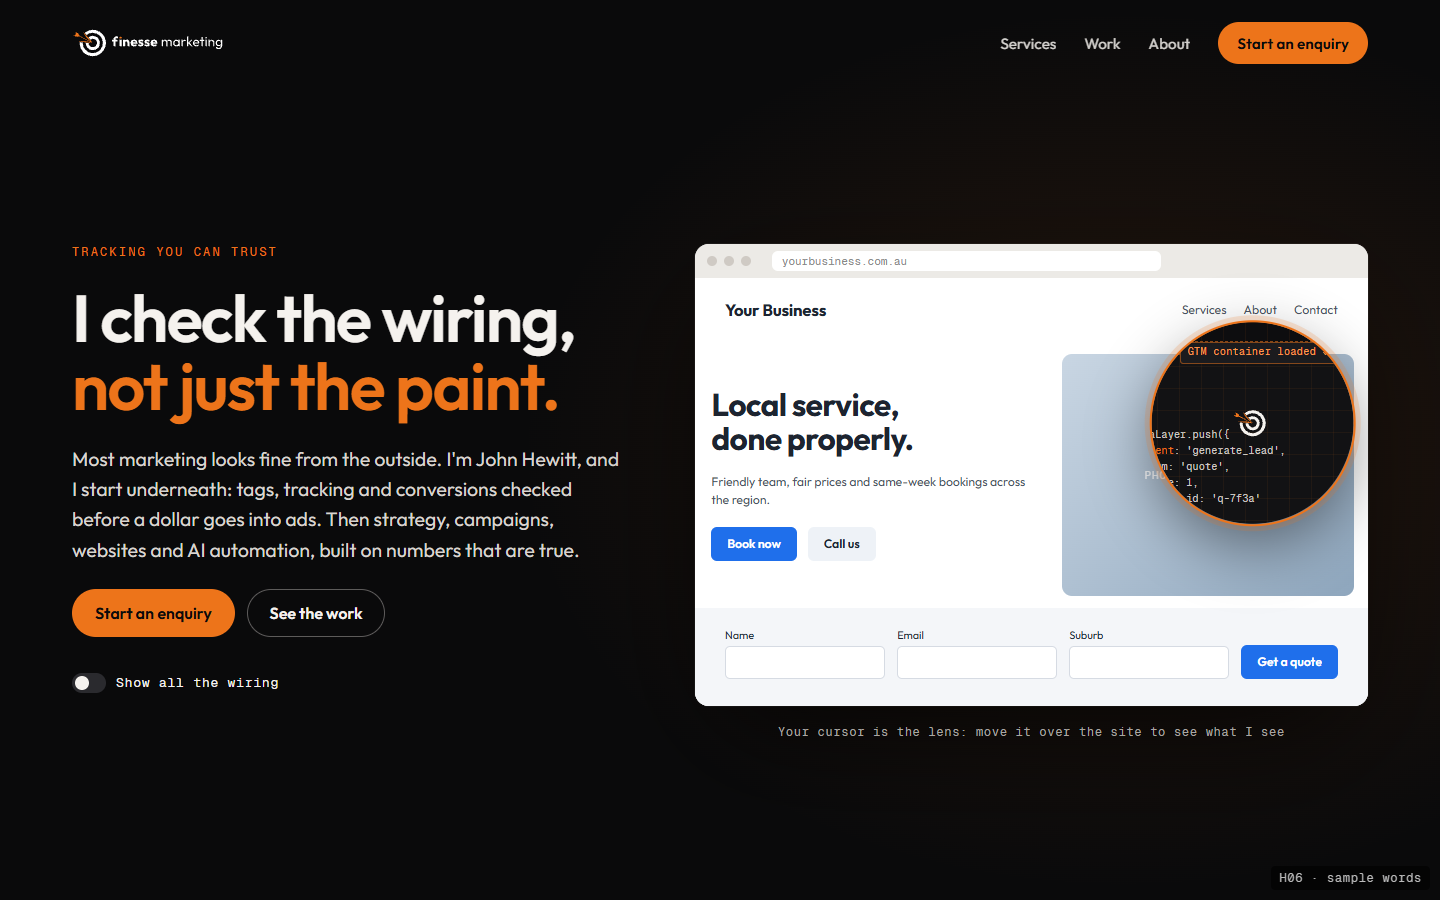
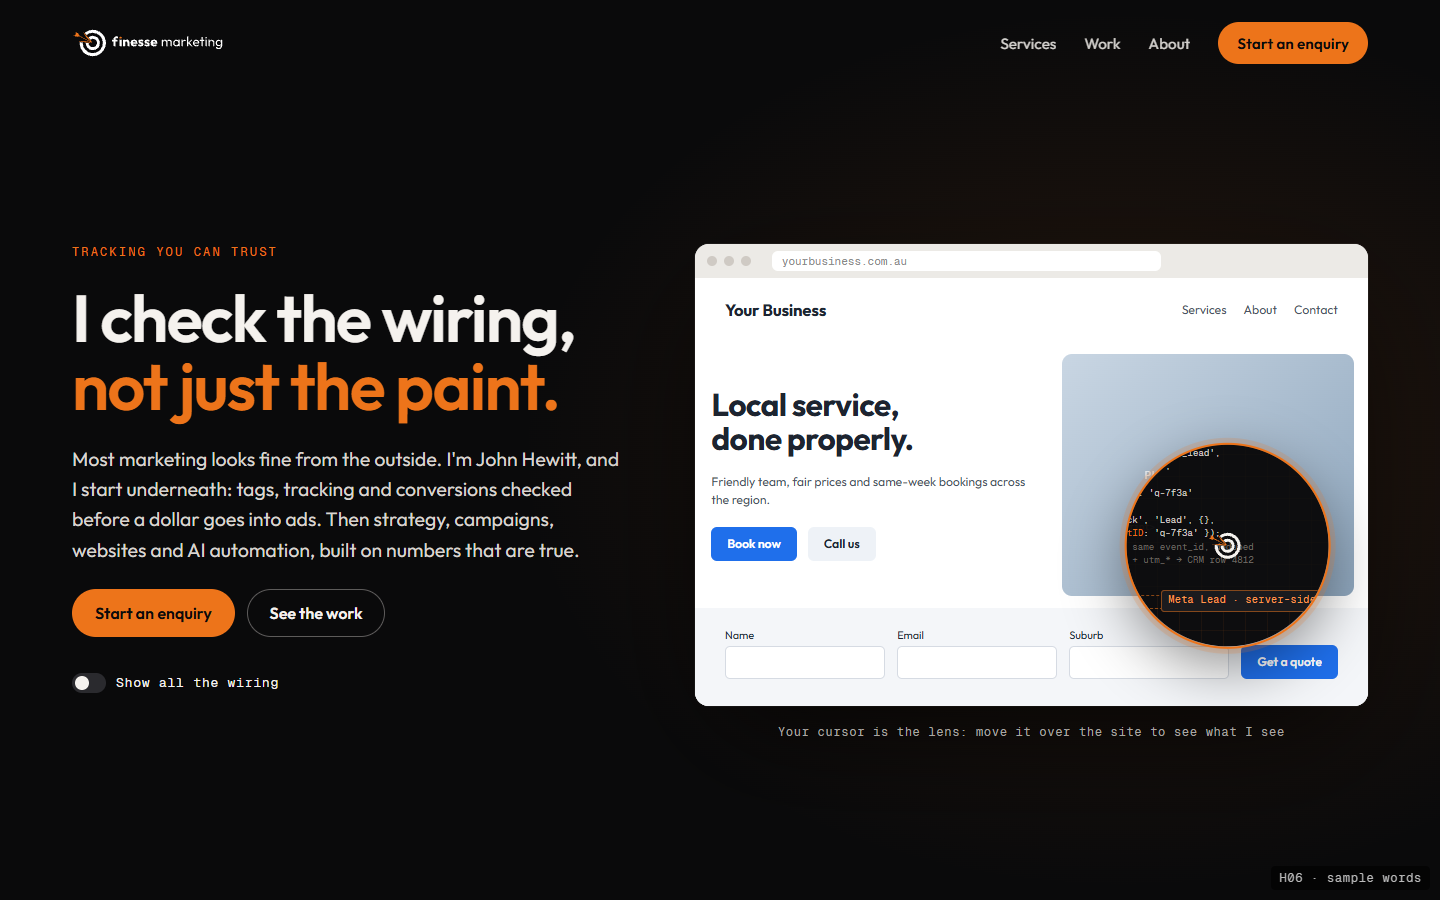
Hero ideas preview: X-ray update (page source behind the wiring)

Changed region(s): [[0.75, 0.3422, 0.9688, 0.7778]]

diff --git a/look/website-hero/xray.html b/look/website-hero/xray.html
@@ -55,11 +55,17 @@ h1 em{font-style:normal;color:var(--orange)}
 .wire .s-logo,.wire .s-h{color:#5a5650}
 .wire .s-links,.wire .s-p{color:#4a4743}
 .wire .s-btn{color:#ff9a4d;background:rgba(237,116,26,.08)}
-.wire .s-img{background:rgba(255,255,255,.02);display:grid;place-items:center}
+.wire .s-img{background:rgba(13,13,15,.82);display:grid}
 .wire .s-f b{background:rgba(255,255,255,.02)}
 .tag{position:absolute;z-index:2;font:500 clamp(8px,.72vw,11px)/1.25 var(--mono);color:#0A0A0B;background:var(--orange);padding:.35em .6em;border-radius:3px;white-space:nowrap;letter-spacing:.02em}
 .tag.dim{background:#1b1b1e;color:#ff9a4d;border:1px solid rgba(237,116,26,.5)}
-.code{font:500 clamp(8px,.72vw,11px)/1.55 var(--mono);color:#cfcac4;white-space:pre;padding:6% 8%}
+.code{position:relative;font:500 clamp(7px,.64vw,10px)/1.45 var(--mono);color:#cfcac4;white-space:pre;padding:9% 7% 4%;align-self:start;justify-self:start}
+.code .cm{font-style:normal;color:#6f6a63}
+.src{position:absolute;inset:0;margin:0;padding:10px 14px;overflow:hidden;font:400 clamp(7px,.6vw,9.5px)/1.5 var(--mono);color:rgba(207,202,196,.2);white-space:pre;pointer-events:none;z-index:0;-webkit-mask-image:linear-gradient(90deg,#000 55%,rgba(0,0,0,.55));mask-image:linear-gradient(90deg,#000 55%,rgba(0,0,0,.55))}
+.src i{font-style:normal}.src .tg{color:rgba(237,116,26,.42)}.src .st{color:rgba(150,200,140,.32)}
+.wire>:not(.src){z-index:1}
+.el{position:absolute;z-index:2;font:500 clamp(7px,.6vw,9.5px)/1.3 var(--mono);color:#ffb27a;background:rgba(13,13,15,.85);border:1px solid rgba(237,116,26,.35);padding:.15em .45em;border-radius:2px;white-space:nowrap;pointer-events:none}
+.wire .s-f{white-space:nowrap;color:#8a847c}
 .code b{color:var(--orange);font-weight:500}
 /* lens */
 .wire,.toggle,.hint{display:none!important}
@@ -83,6 +89,7 @@ h1 em{font-style:normal;color:var(--orange)}
   .s-form{grid-template-columns:1fr 1fr}
   .s-form .s-f:nth-child(3){display:none}
   .hint{bottom:-30px}
+  .el,.x2{display:none}
 }
 </style>
 <script>document.documentElement.className+=' js'</script>
@@ -110,15 +117,82 @@ h1 em{font-style:normal;color:var(--orange)}
         <div class="s-form"><span class="s-f">Name<b></b></span><span class="s-f">Email<b></b></span><span class="s-f">Suburb<b></b></span><span class="s-btn a">Get a quote</span></div>
       </div>
       <div class="layer wire" aria-hidden="true">
-        <div class="s-nav"><span class="s-logo">Your Business</span><span class="s-links"><span>Services</span><span>About</span><span>Contact</span></span><span class="tag dim" style="right:4.5%;top:100%">GTM container loaded &#10003;</span></div>
-        <div class="s-hero"><div class="s-h">Local service,<br>done properly.</div><div class="s-p">Friendly team, fair prices and same-week bookings across the region.</div><div class="s-btns" style="position:relative"><span class="s-btn a">Book now</span><span class="s-btn b">Call us</span><span class="tag" style="left:0;top:118%">Ads conversion: booking &#183; primary &#10003;</span><span class="tag dim" style="left:0;top:178%">Phone number clicks &#10003;</span></div></div>
-        <div class="s-img"><div class="code">dataLayer.push({
+        <pre class="src"><i class="tg">&lt;!doctype</i> html&gt;
+<i class="tg">&lt;html</i> lang=<i class="st">"en-AU"</i>&gt;
+<i class="tg">&lt;head</i>&gt;
+  <i class="tg">&lt;meta</i> charset=<i class="st">"utf-8"</i>&gt;
+  <i class="tg">&lt;title</i>&gt;Local Service, Done Properly | Your Business Toowoomba<i class="tg">&lt;/title</i>&gt;
+  <i class="tg">&lt;meta</i> name=<i class="st">"description"</i> content=<i class="st">"Same-week bookings across the Darling Downs."</i>&gt;
+  <i class="tg">&lt;meta</i> name=<i class="st">"robots"</i> content=<i class="st">"index, follow, max-image-preview:large"</i>&gt;
+  <i class="tg">&lt;link</i> rel=<i class="st">"canonical"</i> href=<i class="st">"https://yourbusiness.com.au/"</i>&gt;
+  <i class="tg">&lt;link</i> rel=<i class="st">"preload"</i> as=<i class="st">"image"</i> href=<i class="st">"/img/hero-1200.webp"</i> fetchpriority=<i class="st">"high"</i>&gt;
+  <i class="tg">&lt;script</i>&gt;
+    window.dataLayer = window.dataLayer || [];
+    function gtag(){dataLayer.push(arguments);}
+    gtag(<i class="st">'consent'</i>, <i class="st">'default'</i>, {
+      ad_storage: <i class="st">'denied'</i>, ad_user_data: <i class="st">'denied'</i>,
+      ad_personalization: <i class="st">'denied'</i>, analytics_storage: <i class="st">'denied'</i>,
+      wait_for_update: 500
+    });
+  <i class="tg">&lt;/script</i>&gt;
+  <i class="tg">&lt;script</i> async src=<i class="st">"https://www.googletagmanager.com/gtm.js?id=GTM-XXXXXXX"</i>&gt;<i class="tg">&lt;/script</i>&gt;
+  <i class="tg">&lt;script</i> type=<i class="st">"application/ld+json"</i>&gt;
+  { <i class="st">"@context"</i>: <i class="st">"https://schema.org"</i>, <i class="st">"@type"</i>: <i class="st">"LocalBusiness"</i>,
+    <i class="st">"name"</i>: <i class="st">"Your Business"</i>, <i class="st">"areaServed"</i>: <i class="st">"Toowoomba QLD"</i>,
+    <i class="st">"telephone"</i>: <i class="st">"+61 7 4600 0000"</i>, <i class="st">"priceRange"</i>: <i class="st">"$$"</i>,
+    <i class="st">"openingHours"</i>: <i class="st">"Mo-Fr 07:00-17:00"</i>,
+    <i class="st">"aggregateRating"</i>: { <i class="st">"ratingValue"</i>: <i class="st">"4.9"</i>, <i class="st">"reviewCount"</i>: <i class="st">"212"</i> } }
+  <i class="tg">&lt;/script</i>&gt;
+<i class="tg">&lt;/head</i>&gt;
+<i class="tg">&lt;body</i> class=<i class="st">"home"</i> data-page-type=<i class="st">"landing"</i>&gt;
+  <i class="tg">&lt;header</i> class=<i class="st">"site-nav"</i> data-gtm-area=<i class="st">"nav"</i>&gt;
+    <i class="tg">&lt;a</i> href=<i class="st">"/"</i> class=<i class="st">"logo"</i> aria-label=<i class="st">"Your Business home"</i>&gt;...<i class="tg">&lt;/a</i>&gt;
+    <i class="tg">&lt;nav</i>&gt;<i class="tg">&lt;a</i> href=<i class="st">"/services"</i>&gt;Services<i class="tg">&lt;/a</i>&gt;<i class="tg">&lt;a</i> href=<i class="st">"/about"</i>&gt;About<i class="tg">&lt;/a</i>&gt;<i class="tg">&lt;/nav</i>&gt;
+  <i class="tg">&lt;/header</i>&gt;
+  <i class="tg">&lt;section</i> class=<i class="st">"hero"</i> data-gtm-area=<i class="st">"hero"</i>&gt;
+    <i class="tg">&lt;h1</i> class=<i class="st">"hero__title"</i>&gt;Local service, done properly.<i class="tg">&lt;/h1</i>&gt;
+    <i class="tg">&lt;a</i> class=<i class="st">"btn btn--primary"</i> href=<i class="st">"/book"</i> data-event=<i class="st">"booking_start"</i>&gt;Book now<i class="tg">&lt;/a</i>&gt;
+    <i class="tg">&lt;a</i> class=<i class="st">"btn"</i> href=<i class="st">"tel:+61746000000"</i> data-event=<i class="st">"phone_click"</i>&gt;Call us<i class="tg">&lt;/a</i>&gt;
+    <i class="tg">&lt;img</i> src=<i class="st">"/img/hero-800.webp"</i> srcset=<i class="st">"/img/hero-1200.webp 1200w"</i>
+         width=<i class="st">"1200"</i> height=<i class="st">"800"</i> alt=<i class="st">"Technician at a Toowoomba home"</i> decoding=<i class="st">"async"</i>&gt;
+  <i class="tg">&lt;/section</i>&gt;
+  <i class="tg">&lt;form</i> id=<i class="st">"quote"</i> action=<i class="st">"/api/quote"</i> method=<i class="st">"post"</i> data-event=<i class="st">"generate_lead"</i>&gt;
+    <i class="tg">&lt;input</i> name=<i class="st">"name"</i> autocomplete=<i class="st">"name"</i> required&gt;
+    <i class="tg">&lt;input</i> name=<i class="st">"email"</i> type=<i class="st">"email"</i> autocomplete=<i class="st">"email"</i> required&gt;
+    <i class="tg">&lt;input</i> name=<i class="st">"suburb"</i> list=<i class="st">"suburbs"</i> required&gt;
+    <i class="tg">&lt;input</i> type=<i class="st">"hidden"</i> name=<i class="st">"gclid"</i> value=<i class="st">"Cj0KCQiA7qO6BhD..."</i>&gt;
+    <i class="tg">&lt;input</i> type=<i class="st">"hidden"</i> name=<i class="st">"fbclid"</i> value=<i class="st">"IwZXh0bgNhZW0C..."</i>&gt;
+    <i class="tg">&lt;input</i> type=<i class="st">"hidden"</i> name=<i class="st">"utm_source"</i> value=<i class="st">"google"</i>&gt;
+    <i class="tg">&lt;input</i> type=<i class="st">"hidden"</i> name=<i class="st">"utm_campaign"</i> value=<i class="st">"search_brand_qld"</i>&gt;
+    <i class="tg">&lt;button</i> type=<i class="st">"submit"</i>&gt;Get a quote<i class="tg">&lt;/button</i>&gt;
+  <i class="tg">&lt;/form</i>&gt;
+  <i class="tg">&lt;script</i>&gt;
+    form.addEventListener(<i class="st">'submit'</i>, async (e) =&gt; {
+      const id = crypto.randomUUID();
+      gtag(<i class="st">'set'</i>, <i class="st">'user_data'</i>, { sha256_email_address: await hash(email.value) });
+      dataLayer.push({ event: <i class="st">'generate_lead'</i>, form: <i class="st">'quote'</i>, event_id: id });
+      fbq(<i class="st">'track'</i>, <i class="st">'Lead'</i>, {}, { eventID: id });   // matched by the server event
+    });
+  <i class="tg">&lt;/script</i>&gt;
+<i class="tg">&lt;/body</i>&gt;
+<i class="tg">&lt;/html</i>&gt;</pre>
+        <div class="s-nav"><span class="el" style="left:4.5%;top:2px">header.site-nav &#183; 1280&#215;64</span><span class="s-logo">Your Business</span><span class="s-links"><span>Services</span><span>About</span><span>Contact</span></span><span class="tag dim" style="right:4.5%;top:100%">GTM container loaded &#183; 212 ms &#10003;</span><span class="tag dim x2" style="left:31%;top:50%;transform:translateY(-50%)">Consent Mode v2 &#183; default denied &#10003;</span></div>
+        <div class="s-hero"><div class="s-h"><span class="el" style="left:0;bottom:100%">h1.hero__title &#183; 1 per page &#10003;</span><span class="tag dim x2" style="left:52%;bottom:100%">Schema: LocalBusiness &#183; 4.9&#9733; 212 &#10003;</span>Local service,<br>done properly.</div><div class="s-p" style="position:relative"><span class="el" style="right:0;top:-1.5em">p &#183; meta description match &#10003;</span>Friendly team, fair prices and same-week bookings across the region.</div><div class="s-btns" style="position:relative"><span class="s-btn a">Book now</span><span class="s-btn b">Call us</span><span class="tag" style="left:0;top:118%">Ads conversion: booking &#183; primary &#10003;</span><span class="tag dim" style="left:0;bottom:calc(100% + 6px)">Phone number clicks &#183; tel: &#10003;</span></div></div>
+        <div class="s-img"><span class="el" style="right:0;top:0">img &#183; webp 41 KB &#183; alt &#10003; &#183; LCP 1.6 s</span><div class="code"><i class="cm">// on submit, counted once everywhere</i>
+gtag('set', 'user_data', {
+  <b>sha256_email_address</b>: '9f86d0818...'
+});
+dataLayer.push({
   <b>event</b>: 'generate_lead',
   form: 'quote',
   value: 1,
-  dedupe_id: 'q-7f3a'
-});</div></div>
-        <div class="s-form"><span class="s-f">Name<b></b></span><span class="s-f">Email<b></b></span><span class="s-f">Suburb<b></b></span><span class="s-btn a">Get a quote</span><span class="tag" style="left:4.5%;bottom:calc(100% - 4px)">GA4 generate_lead &#183; counted once &#10003;</span><span class="tag dim" style="right:4.5%;bottom:calc(100% - 4px)">Meta Lead &#183; server-side &#10003;</span></div>
+  <b>event_id</b>: 'q-7f3a'
+});
+fbq('track', 'Lead', {},
+  { <b>eventID</b>: 'q-7f3a' });
+<i class="cm">// CAPI: same event_id, deduped</i>
+<i class="cm">// gclid + utm_* &#8594; CRM row 4812</i></div></div>
+        <div class="s-form"><span class="s-f">name &#183; required<b></b></span><span class="s-f">email &#183; hashed &#10003;<b></b></span><span class="s-f">suburb &#183; gclid &#10003;<b></b></span><span class="s-btn a">Get a quote</span><span class="tag" style="left:4.5%;bottom:calc(100% - 4px)">GA4 generate_lead &#183; counted once &#10003;</span><span class="tag dim" style="right:4.5%;bottom:calc(100% - 4px)">Meta Lead &#183; server-side &#10003;</span></div>
       </div>
       <div class="lens" aria-hidden="true"><svg class="mark" viewBox="-100 -100 200 200" aria-hidden="true"><path fill="#F5F2EE" d="M100 0C100 55.23 55.23 100 0 100C-55.23 100 -100 55.23 -100 0C-100 -2.04 -99.94 -4.07 -99.82 -6.09Q-88.52 -4.77 -77.22 -3.57C-77.27 -2.39 -77.3 -1.2 -77.3 0C-77.3 42.69 -42.69 77.3 0 77.3C42.69 77.3 77.3 42.69 77.3 0C77.3 -42.69 42.69 -77.3 0 -77.3C-18.18 -77.3 -34.9 -71.02 -48.1 -60.51Q-55.4 -69.23 -62.58 -78.01C-45.44 -91.77 -23.68 -100 0 -100C55.23 -100 100 -55.23 100 0ZM54.5 0C54.5 30.1 30.1 54.5 0 54.5C-30.1 54.5 -54.5 30.1 -54.5 0C-54.5 -0.42 -54.5 -0.84 -54.49 -1.26Q-43.24 -0.17 -31.99 0.81C-31.56 18.11 -17.4 32 0 32C17.67 32 32 17.67 32 0C32 -17.67 17.67 -32 0 -32C-6.93 -32 -13.35 -29.8 -18.59 -26.05Q-26.03 -34.54 -33.36 -43.1C-24.14 -50.25 -12.57 -54.5 0 -54.5C30.1 -54.5 54.5 -30.1 54.5 0Z"/><path fill="#ED741A" d="M-144.02 -58.81 -131.72 -63.07 -128.45 -69.49 -132.23 -81.95Q-132.3 -82.19 -132.19 -82.41Q-132.07 -82.62 -131.83 -82.7Q-131.6 -82.77 -131.39 -82.66L-109.69 -71.6Q-109.47 -71.49 -109.39 -71.27L-104.4 -57.23L-11.01 -6.29Q-10.8 -6.17 -10.73 -5.93Q-10.66 -5.69 -10.78 -5.47Q-10.89 -5.26 -11.12 -5.19Q-11.34 -5.11 -11.56 -5.22L-107.66 -50.82L-121.96 -46.61Q-122.19 -46.54 -122.4 -46.65L-144.1 -57.71Q-144.32 -57.82 -144.4 -58.06Q-144.47 -58.29 -144.36 -58.52Q-144.25 -58.73 -144.02 -58.81ZM-114 -11Q-55 -21.4 0.5 0.2Q-56.7 -3.99 -114 -11ZM-74 -87Q-38.17 -42.54 0.5 0.2Q-51.5 -31.2 -74 -87Z"/></svg></div>
     </div>
